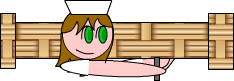
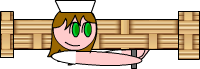
Added new sprites, target moves at random, pictures slightly resized

Changed region(s): [[0.0, 0.0, 1.0, 1.0]]

diff --git a/assets/js/main.js b/assets/js/main.js
@@ -23,7 +23,7 @@ var mouseX, mouseY, mousePositionText;
 
 var powerText, angleText, userAngle, userPower;
 
-var walk, blocks, blockArray, spriteX, spriteY, powerUpX, powerUpY, movingWalkerX, movingWalkerY, direction, walkerDirection;
+var walk, blocks, blockArray, spriteX, spriteY, powerUpX, powerUpY, movingWalkerX, movingWalkerY, direction, walkerDirection, grandma, grandmaTarget, flyer, flyerTarget;
 
 var itemToChuck, powerUp, cupCake, giantCupcake, gingerBread, powerUpSpeed, walker, movingWalker, itemSpeedFactor;
 
@@ -202,9 +202,10 @@ function drawGameScreen() {
         drawWalker();
     }
 
-    grumpyCat.x = 590;
-    grumpyCat.y = 410;
-    stage.addChild(grumpyCat);
+    grandma.x = 630;
+    grandma.y = 410;
+	randStartTarget();
+    stage.addChild(grandma);
     
     easterHit.x = 0;
     easterHit.y = 5;
@@ -289,7 +290,8 @@ fileManifest = [
                 {src:"audio/splat.wav", id:"splat"},
                 {src:"audio/launch.wav", id:"launch"},
                 {src:"audio/GeorgeStreet.mp3", id:"georgeStreet"},
-
+				{src:"img/grandma.png", id:"grandma"},
+				{src:"img/oldFlyer.png", id:"flyer"},
 
     
             ];
@@ -351,30 +353,23 @@ function loadComplete(evt) {
 	containShot = new createjs.Container();
 	containShot.addChild(refPoint, aimer);
 
-    // var blockSheet = new createjs.SpriteSheet({
-    //     images: [queue.getResult("mySprites")],
-    //     frames: [[0,0,32,32,0,16,16],[32,0,32,32,0,16,16],[64,0,32,32,0,16,16],[96,0,32,32,0,16,16],[128,0,32,32,0,16,16]]
-    //     });
-
-    // blocks = new createjs.Sprite(blockSheet);
-
-    // var walkSheet = new createjs.SpriteSheet({
-    //     images: [queue.getResult("mySprites")],
-    //     frames: [[160,0,19,49,0,10.05,48.6],[179,0,34,44,0,17.05,43.6],[213,0,22,46,0,9.05,45.6],[235,0,17,49,0,8.05,48.6],[0,49,25,49,0,10.05,48.6],[25,49,31,46,0,14.05,45.6],[56,49,33,44,0,16.05,43.6],[89,49,30,44,0,17.05,43.6],[119,49,28,46,0,17.05,45.6],[147,49,19,49,0,10.05,48.6],[166,49,23,49,0,14.05,48.6],[189,49,31,46,0,16.05,45.6],[220,49,34,44,0,17.05,43.6],[0,98,19,49,0,9.05,48.6],[19,98,34,44,0,17.05,43.6],[53,98,22,46,0,13.05,45.6],[75,98,17,49,0,9.05,48.6],[92,98,25,49,0,15.05,48.6],[117,98,31,46,0,17.05,45.6],[148,98,33,44,0,17.05,43.6],[181,98,30,44,0,13.05,43.6],[211,98,28,46,0,11.05,45.6],[0,147,19,49,0,9.05,48.6],[19,147,23,49,0,9.05,48.6],[42,147,31,46,0,15.05,45.6],[73,147,34,44,0,17.05,43.6]],
-    //     animations: {
-    //         standRight: [0, 0, "standRight"],
-    //         walkRight: [1, 12, "walkRight", 0.5],
-    //         standLeft: [13, 13, "standLeft"],
-    //         walkLeft: [14, 25, "walkLeft", 0.5]
-    //         }     
-    //     });
-    
-    // walk = new createjs.Sprite(walkSheet);
+    var grandmaTarget = new createjs.SpriteSheet({
+        images: [queue.getResult("flyer")],
+        frames: [[0,0,140,254,0,56.85,145.75],[0,0,140,254,0,56.85,145.75],[0,0,140,254,0,56.85,145.75],[140,0,140,254,0,56.85,145.75],[140,0,140,254,0,56.85,145.75],[140,0,140,254,0,56.85,145.75],[140,0,140,254,0,56.85,145.75],[140,0,140,254,0,56.85,145.75],[140,0,140,254,0,56.85,145.75],[280,0,140,254,0,56.85,145.75],[280,0,140,254,0,56.85,145.75],[280,0,140,254,0,56.85,145.75],[280,0,140,254,0,56.85,145.75],[280,0,140,254,0,56.85,145.75],[420,0,140,254,0,56.85,145.75],[420,0,140,254,0,56.85,145.75],[420,0,140,254,0,56.85,145.75],[420,0,140,254,0,56.85,145.75],[420,0,140,254,0,56.85,145.75],[560,0,140,254,0,56.85,145.75],[700,0,140,254,0,56.85,145.75],[700,0,140,254,0,56.85,145.75],[700,0,140,254,0,56.85,145.75],[700,0,140,254,0,56.85,145.75],[840,0,140,252,0,56.85,144.75]],
+        animations: {
+            standRight: [0, 0, "standRight"],
+            idleRight: [1, 24, "idleRight", 0.5]
+            }     
+        });
+		
+	grandma = new createjs.Sprite(grandmaTarget);
+	
+	grandma.gotoAndPlay("idleRight");
 
     handleButtonClick();
     initMouseCords();
     spriteX = 50;
-    spriteY = 450;
+    spriteY = 400;
     // mousePositionText = new createjs.Text("Mouse X: " +mouseX + "  Mouse Y:" + mouseY, "15px Arial", "#253742");
     scoreText = new createjs.Text("Score: "+ score, "19px Arial Bold", "#253742"); 
     itemsText = new createjs.Text("Ammo: " + itemsToThrow, "19px Arial Bold", "#253742");
@@ -418,13 +413,13 @@ var container;
 function displayPlayer()
 {
 	player.x = 40;
-	player.y = 500;
+	player.y = 460;
 	stage.addChild(player);
 	
-	aimer.x = 80;
-	aimer.y = 520;
-	aimer.regX = 72;
-	aimer.regY = 80;
+	aimer.x = 95;
+	aimer.y = 475;
+	aimer.regX = 80;
+	aimer.regY = 68;
 	stage.addChild(aimer);
 	
 }
@@ -582,15 +577,15 @@ function handleMouseMove(event)
 		
 		if(userAngle <= 90)
 		{
-			aimer.setTransform(80,520,1,1,throwAngle,0,0,72,80);
+			aimer.setTransform(95,475,1,1,throwAngle,0,0,80,68);
 		}
 		else if(userAngle >90 && userAngle < 270)
 		{
-			aimer.setTransform(110,520,1,-1,throwAngle,0,0,72,80);
+			aimer.setTransform(115,475,1,-1,throwAngle,0,0,80,68);
 		}
 		else if(userAngle > 270 && userAngle <= 360)
 		{
-			aimer.setTransform(80,520,1,1,throwAngle,0,0,72,80);
+			aimer.setTransform(95,475,1,1,throwAngle,0,0,80,68);
 		}
 		
 		powerText.x = mouseX + 5;
@@ -813,7 +808,7 @@ function updateItemTossedMovement() {
 
 function checkForCollision() {
     var powerUpDetected = ndgmr.checkPixelCollision(powerUp, itemToChuck);
-    var collision = ndgmr.checkPixelCollision(grumpyCat,itemToChuck);
+    var collision = ndgmr.checkPixelCollision(grandma,itemToChuck);
     var easterCollision = ndgmr.checkRectCollision(easterHit,itemToChuck);
     var walkerCollision = ndgmr.checkPixelCollision(walker, itemToChuck);
     var movingWalkerCollision = ndgmr.checkPixelCollision(movingWalker, itemToChuck);
@@ -824,7 +819,7 @@ function checkForCollision() {
         displayItemToChuck();
         createjs.Sound.play('splat');
         spriteX = 50;
-        spriteY = 450;
+        spriteY = 400;
         gameState = IN_GAME;
     }
 
@@ -833,7 +828,7 @@ function checkForCollision() {
         displayItemToChuck();
         createjs.Sound.play('splat');
         spriteX = 50;
-        spriteY = 450;
+        spriteY = 400;
         gameState = IN_GAME;
     }
 
@@ -843,7 +838,7 @@ function checkForCollision() {
             createjs.Sound.play('splat');
             itemsToThrow += 2;
             spriteX = 50;
-            spriteY = 450;
+            spriteY = 400;
             displayItemToChuck();
             gameState = IN_GAME;
             score++;
@@ -853,7 +848,7 @@ function checkForCollision() {
     }
     if( collision ){
             spriteX = 50;
-            spriteY = 450;
+            spriteY = 400;
             displayItemToChuck();
             gameState = IN_GAME;
             createjs.Sound.play('splat');
@@ -864,12 +859,12 @@ function checkForCollision() {
     if(easterCollision){
         easterMode = true;
         spriteX = 50;
-        spriteY = 450;
+        spriteY = 400;
         stage.addChild(easterBackdrop);
 		stage.setChildIndex(easterBackdrop,1);
-        grumpyCat.x = 590;
-        grumpyCat.y = 410;
-        stage.addChild(grumpyCat);
+        grandmaTarget.x = 630;
+        grandmaTarget.y = 410;
+        stage.addChild(grandmaTarget);
         stage.removeChild(powerUp);
         startPowerUp();
         drawAmmoBar();
@@ -879,14 +874,14 @@ function checkForCollision() {
          if ( itemToChuck.y + 45 >= canvas.height ) {
             createjs.Sound.play('splat');
             spriteX = 50;
-            spriteY = 450;
+            spriteY = 400;
             displayItemToChuck();
             gameState = IN_GAME;
          }
          if ( itemToChuck.x + 50 >= canvas.width || itemToChuck.x < 0){
             createjs.Sound.play('splat');
             spriteX = 50;
-            spriteY = 450;
+            spriteY = 400;
             displayItemToChuck();
             gameState = IN_GAME;
            } 
@@ -929,6 +924,18 @@ function moveMovingWalker() {
     movingWalker.y = movingWalkerY;
 }
 
+function randStartTarget()
+{
+	var rand;
+	rand = Math.floor(Math.random()* 500);
+	console.log(rand);
+	if(rand < 50)
+	{
+		rand += 50;
+	}
+		grandma.y = rand;
+	
+}
 
 function resetGame() {
     score = 0;

diff --git a/assets/img/grandma.js b/assets/img/grandma.js
@@ -1,0 +1,14 @@
+(function(window) {
+Symbol_1 = function() {
+	this.initialize();
+}
+Symbol_1._SpriteSheet = new createjs.SpriteSheet({images: ["grandma.png"], frames: [[0,0,110,301,0,49.599999999999994,68.6],[110,0,110,302,0,49.599999999999994,68.6],[220,0,110,302,0,49.599999999999994,68.6],[330,0,110,303,0,49.599999999999994,68.6],[440,0,110,303,0,49.599999999999994,68.6],[550,0,110,304,0,49.599999999999994,68.6],[660,0,110,304,0,49.599999999999994,68.6],[770,0,111,305,0,49.599999999999994,68.6],[881,0,111,305,0,49.599999999999994,68.6],[992,0,112,306,0,50.599999999999994,69.6],[1104,0,112,307,0,50.599999999999994,69.6],[1216,0,112,307,0,50.599999999999994,69.6],[1328,0,112,308,0,50.599999999999994,69.6],[1440,0,112,308,0,50.599999999999994,69.6],[1552,0,113,306,0,50.599999999999994,66.6],[1552,0,113,306,0,50.599999999999994,66.6],[1552,0,113,306,0,50.599999999999994,66.6],[1552,0,113,306,0,50.599999999999994,66.6],[1552,0,113,306,0,50.599999999999994,66.6],[1552,0,113,306,0,50.599999999999994,66.6],[1552,0,113,306,0,50.599999999999994,66.6],[1665,0,112,305,0,50.599999999999994,66.6],[1665,0,112,305,0,50.599999999999994,66.6],[1665,0,112,305,0,50.599999999999994,66.6],[1665,0,112,305,0,50.599999999999994,66.6],[1777,0,130,303,0,75.6,65.6],[1777,0,130,303,0,75.6,65.6],[1777,0,130,303,0,75.6,65.6],[1777,0,130,303,0,75.6,65.6],[0,308,184,291,0,135.6,54.599999999999994],[184,308,183,291,0,134.6,54.599999999999994],[367,308,183,291,0,134.6,54.599999999999994],[550,308,183,291,0,134.6,54.599999999999994],[550,308,183,291,0,134.6,54.599999999999994],[733,308,182,291,0,133.6,54.599999999999994],[915,308,182,291,0,133.6,54.599999999999994],[1097,308,182,291,0,133.6,54.599999999999994],[1279,308,182,291,0,133.6,54.599999999999994],[1461,308,182,291,0,133.6,54.599999999999994],[1643,308,182,287,0,133.6,53.599999999999994],[1825,308,182,287,0,133.6,53.599999999999994],[0,599,206,287,0,153.6,53.599999999999994],[206,599,237,287,0,173.6,53.599999999999994],[443,599,269,299,0,193.6,65.6],[712,599,244,298,0,170.6,64.6],[956,599,221,298,0,148.6,64.6],[1177,599,209,299,0,137.6,65.6],[1386,599,209,300,0,138.6,66.6],[1595,599,209,299,0,139.6,65.6],[1804,599,210,300,0,140.6,66.6],[0,899,203,287,0,140.6,53.599999999999994],[203,899,199,287,0,141.6,53.599999999999994],[402,899,194,287,0,142.6,53.599999999999994],[596,899,191,287,0,142.6,53.599999999999994],[787,899,199,301,0,144.6,68.6],[986,899,110,303,0,54.599999999999994,69.6],[986,899,110,303,0,54.599999999999994,69.6],[986,899,110,303,0,54.599999999999994,69.6],[986,899,110,303,0,54.599999999999994,69.6],[986,899,110,303,0,54.599999999999994,69.6],[986,899,110,303,0,54.599999999999994,69.6],[986,899,110,303,0,54.599999999999994,69.6],[986,899,110,303,0,54.599999999999994,69.6],[986,899,110,303,0,54.599999999999994,69.6],[986,899,110,303,0,54.599999999999994,69.6],[986,899,110,303,0,54.599999999999994,69.6],[986,899,110,303,0,54.599999999999994,69.6],[986,899,110,303,0,54.599999999999994,69.6],[986,899,110,303,0,54.599999999999994,69.6],[986,899,110,303,0,54.599999999999994,69.6],[986,899,110,303,0,54.599999999999994,69.6],[986,899,110,303,0,54.599999999999994,69.6],[986,899,110,303,0,54.599999999999994,69.6],[986,899,110,303,0,54.599999999999994,69.6],[986,899,110,303,0,54.599999999999994,69.6],[986,899,110,303,0,54.599999999999994,69.6],[986,899,110,303,0,54.599999999999994,69.6],[986,899,110,303,0,54.599999999999994,69.6],[986,899,110,303,0,54.599999999999994,69.6],[1096,899,114,314,0,54.599999999999994,74.6]]});
+var Symbol_1_p = Symbol_1.prototype = new createjs.Sprite();
+Symbol_1_p.Sprite_initialize = Symbol_1_p.initialize;
+Symbol_1_p.initialize = function() {
+	this.Sprite_initialize(Symbol_1._SpriteSheet);
+	this.paused = false;
+}
+window.Symbol_1 = Symbol_1;
+}(window));
+

diff --git a/assets/img/oldFlyer.js b/assets/img/oldFlyer.js
@@ -1,0 +1,14 @@
+(function(window) {
+Target1 = function() {
+	this.initialize();
+}
+Target1._SpriteSheet = new createjs.SpriteSheet({images: ["oldFlyer.png"], frames: [[0,0,140,254,0,56.85,145.75],[0,0,140,254,0,56.85,145.75],[0,0,140,254,0,56.85,145.75],[140,0,140,254,0,56.85,145.75],[140,0,140,254,0,56.85,145.75],[140,0,140,254,0,56.85,145.75],[140,0,140,254,0,56.85,145.75],[140,0,140,254,0,56.85,145.75],[140,0,140,254,0,56.85,145.75],[280,0,140,254,0,56.85,145.75],[280,0,140,254,0,56.85,145.75],[280,0,140,254,0,56.85,145.75],[280,0,140,254,0,56.85,145.75],[280,0,140,254,0,56.85,145.75],[420,0,140,254,0,56.85,145.75],[420,0,140,254,0,56.85,145.75],[420,0,140,254,0,56.85,145.75],[420,0,140,254,0,56.85,145.75],[420,0,140,254,0,56.85,145.75],[560,0,140,254,0,56.85,145.75],[700,0,140,254,0,56.85,145.75],[700,0,140,254,0,56.85,145.75],[700,0,140,254,0,56.85,145.75],[700,0,140,254,0,56.85,145.75],[840,0,140,252,0,56.85,144.75]]});
+var Target1_p = Target1.prototype = new createjs.Sprite();
+Target1_p.Sprite_initialize = Target1_p.initialize;
+Target1_p.initialize = function() {
+	this.Sprite_initialize(Target1._SpriteSheet);
+	this.paused = false;
+}
+window.Target1 = Target1;
+}(window));
+
